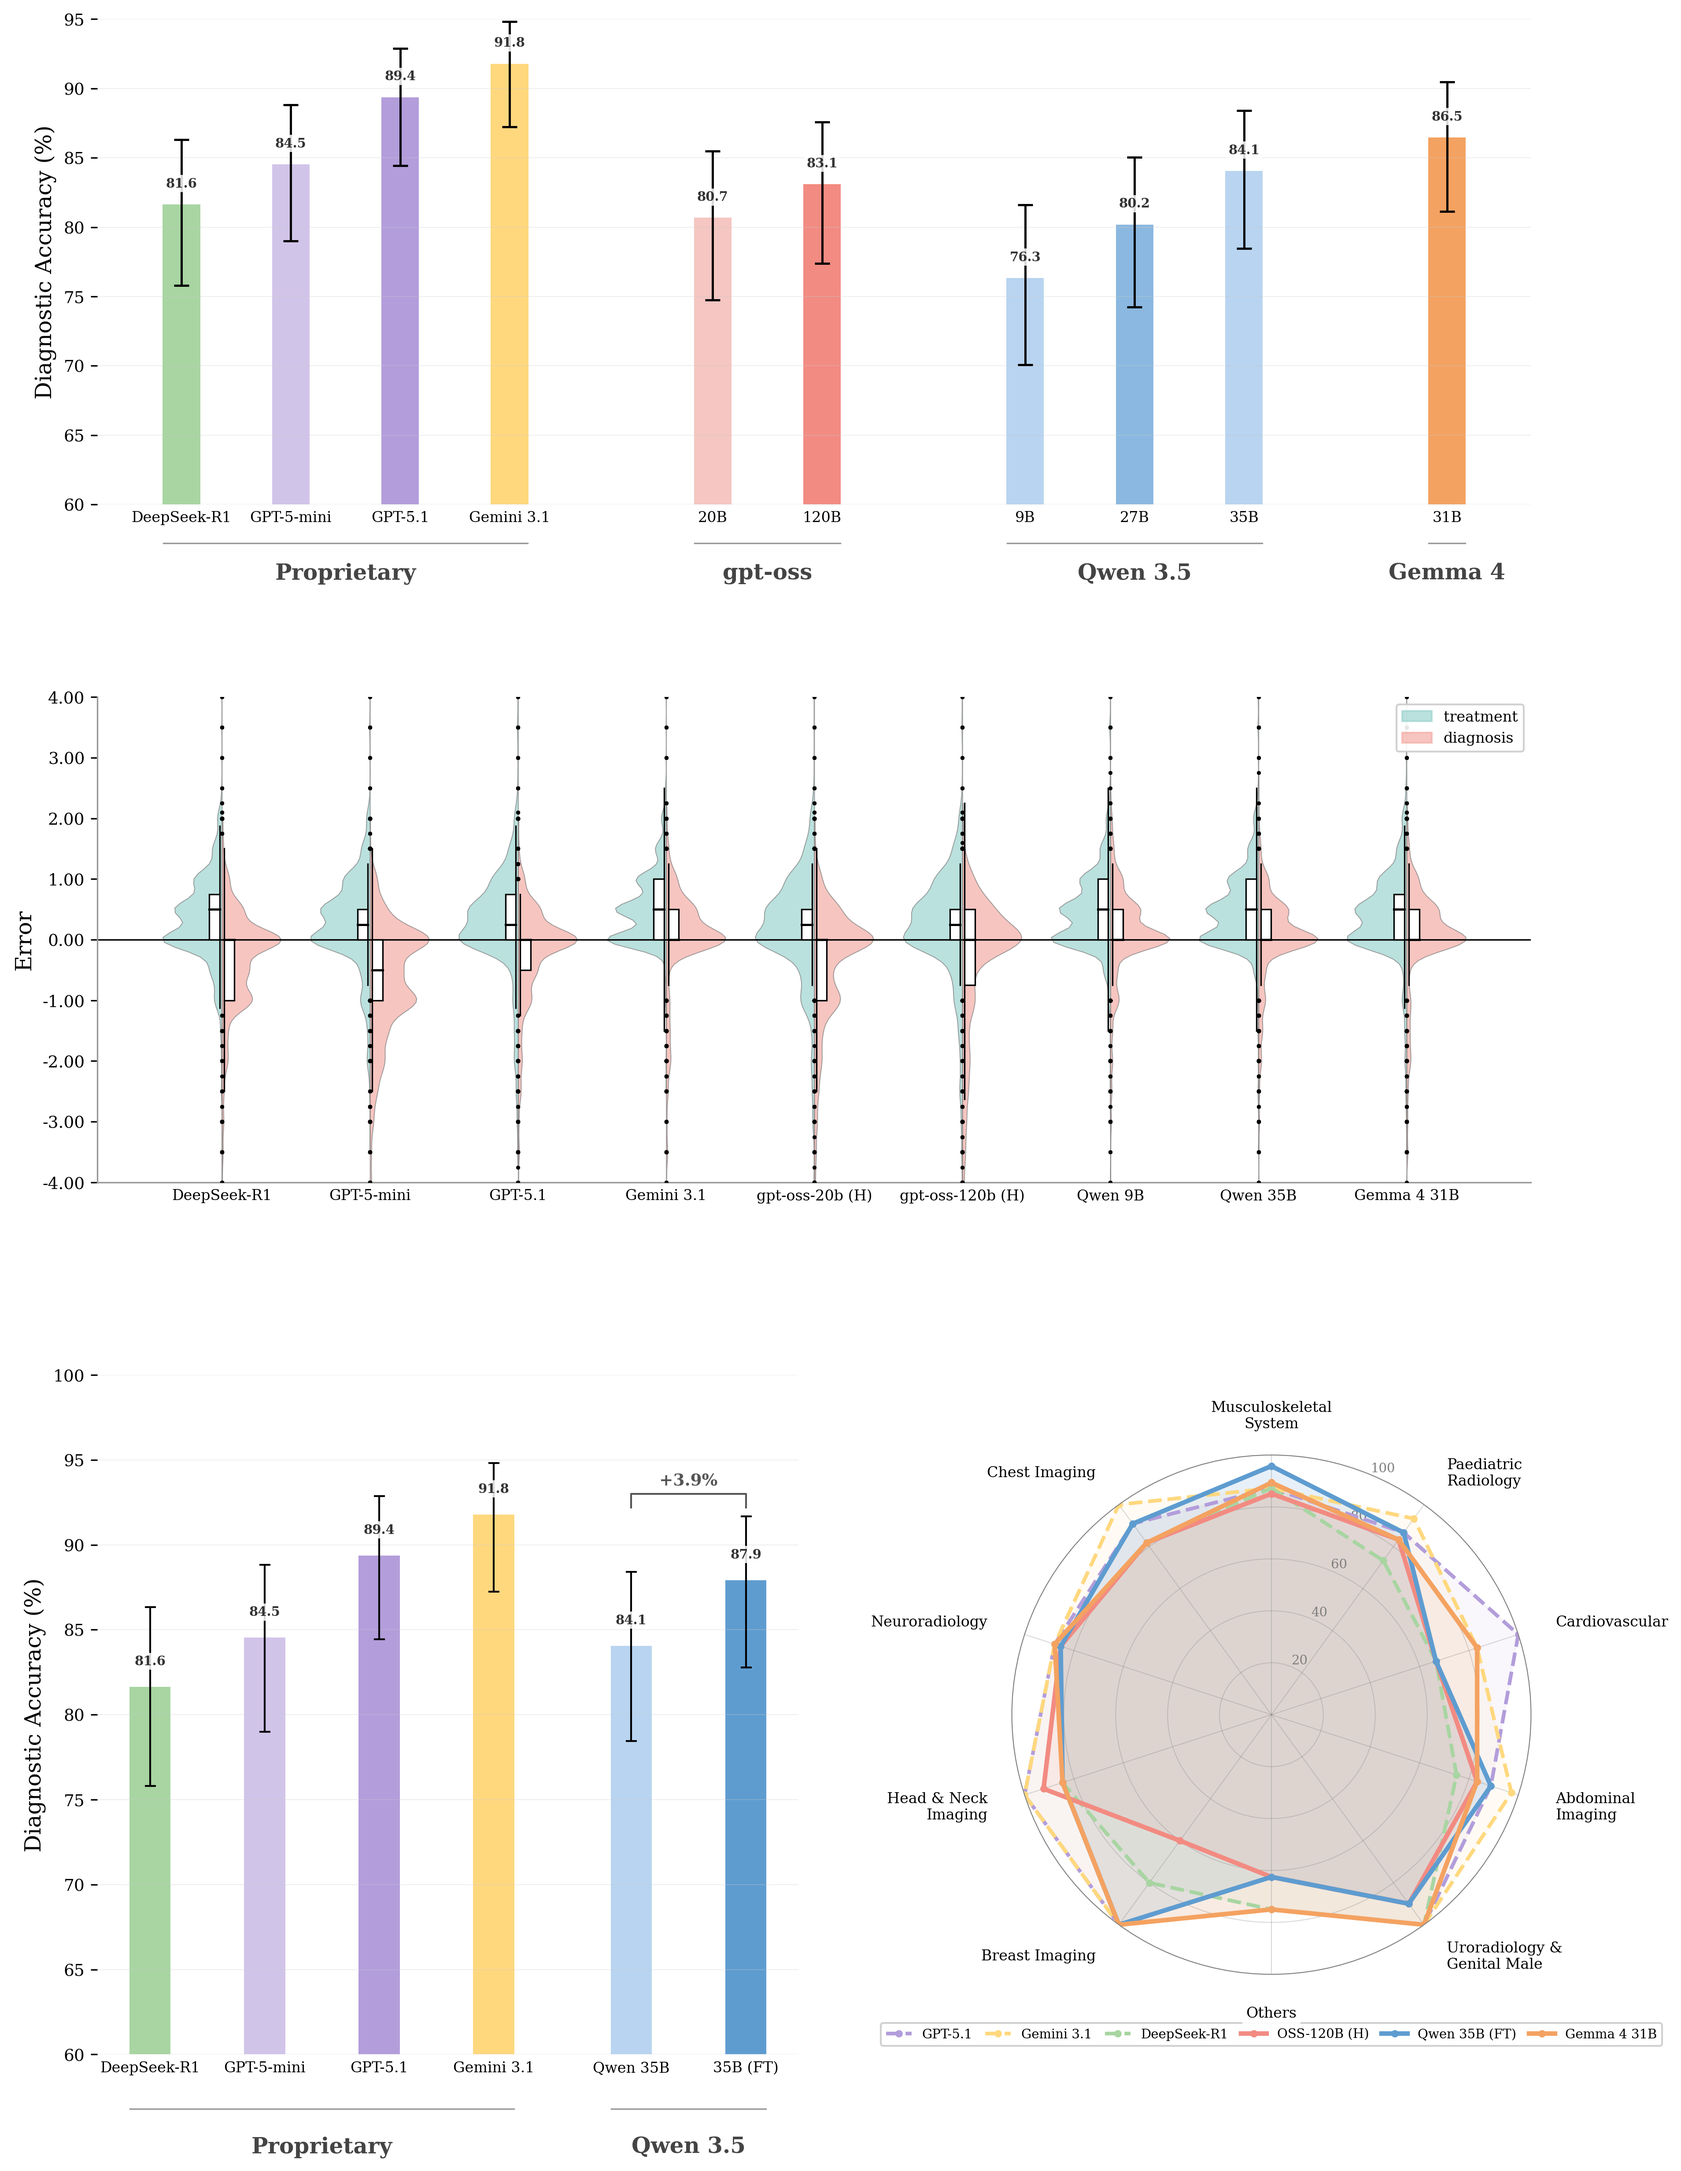
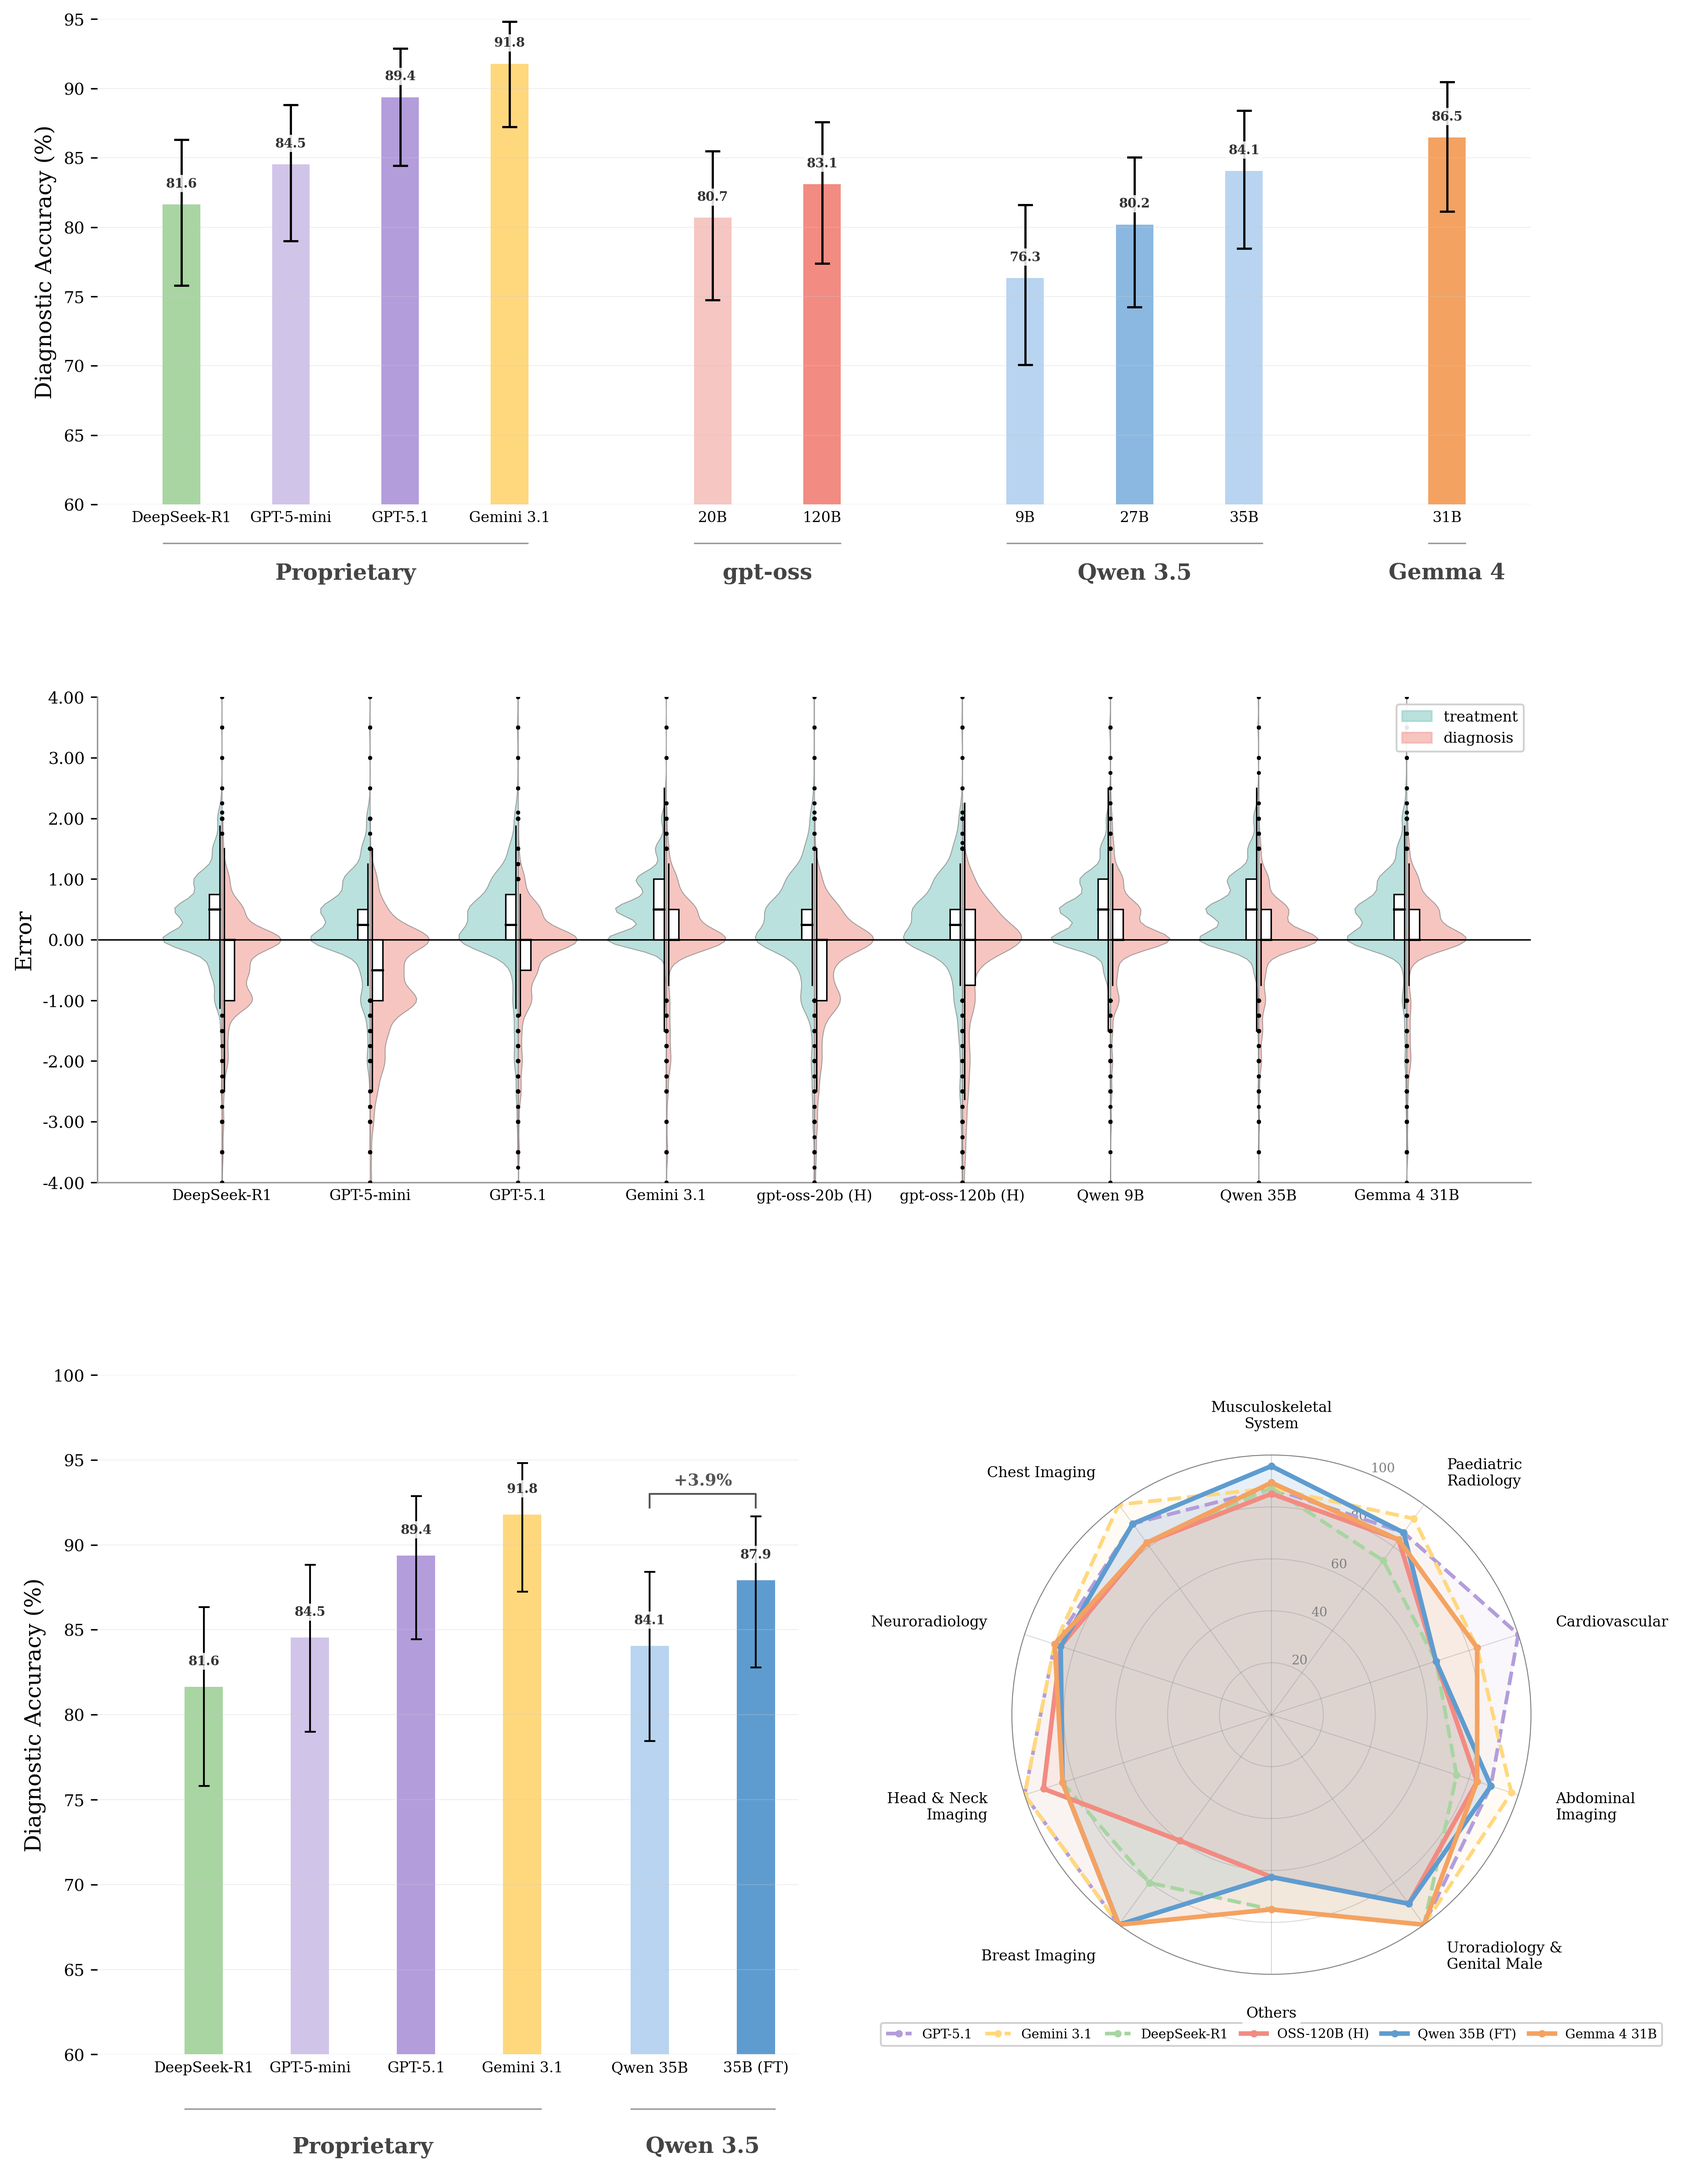
Push Fig 2 panel c bars further right via explicit xlim padding
Set xlim=(positions[0] - 2.0, positions[-1] + 0.8) so the left margin
matches panel a's proportions and DeepSeek-R1 has comfortable clearance
from the y-axis.

Changed region(s): [[0.0624, 0.6875, 0.4676, 1.0]]

diff --git a/figures/combined_figure.py b/figures/combined_figure.py
@@ -227,7 +227,7 @@ def panel_finetune(ax):
     all_results = {**euro_results, **ft_results}
 
     positions = []
-    x = 1.6
+    x = 0
     step = 2.0
     gaps_after = {3}
     for idx in range(len(bars)):
@@ -278,6 +278,7 @@ def panel_finetune(ax):
     display_labels = ["DeepSeek-R1" if l == "DeepSeek" else l for l in labels]
     ax.set_xticklabels(display_labels, fontsize=8)
     ax.set_ylabel("Diagnostic Accuracy (%)", fontsize=12)
+    ax.set_xlim(positions[0] - 2.0, positions[-1] + 0.8)
     ax.set_ylim(60, 100)
     ax.yaxis.set_major_locator(mtick.MultipleLocator(5))
     ax.grid(axis="y", alpha=0.3, color="#cccccc", linewidth=0.5)
